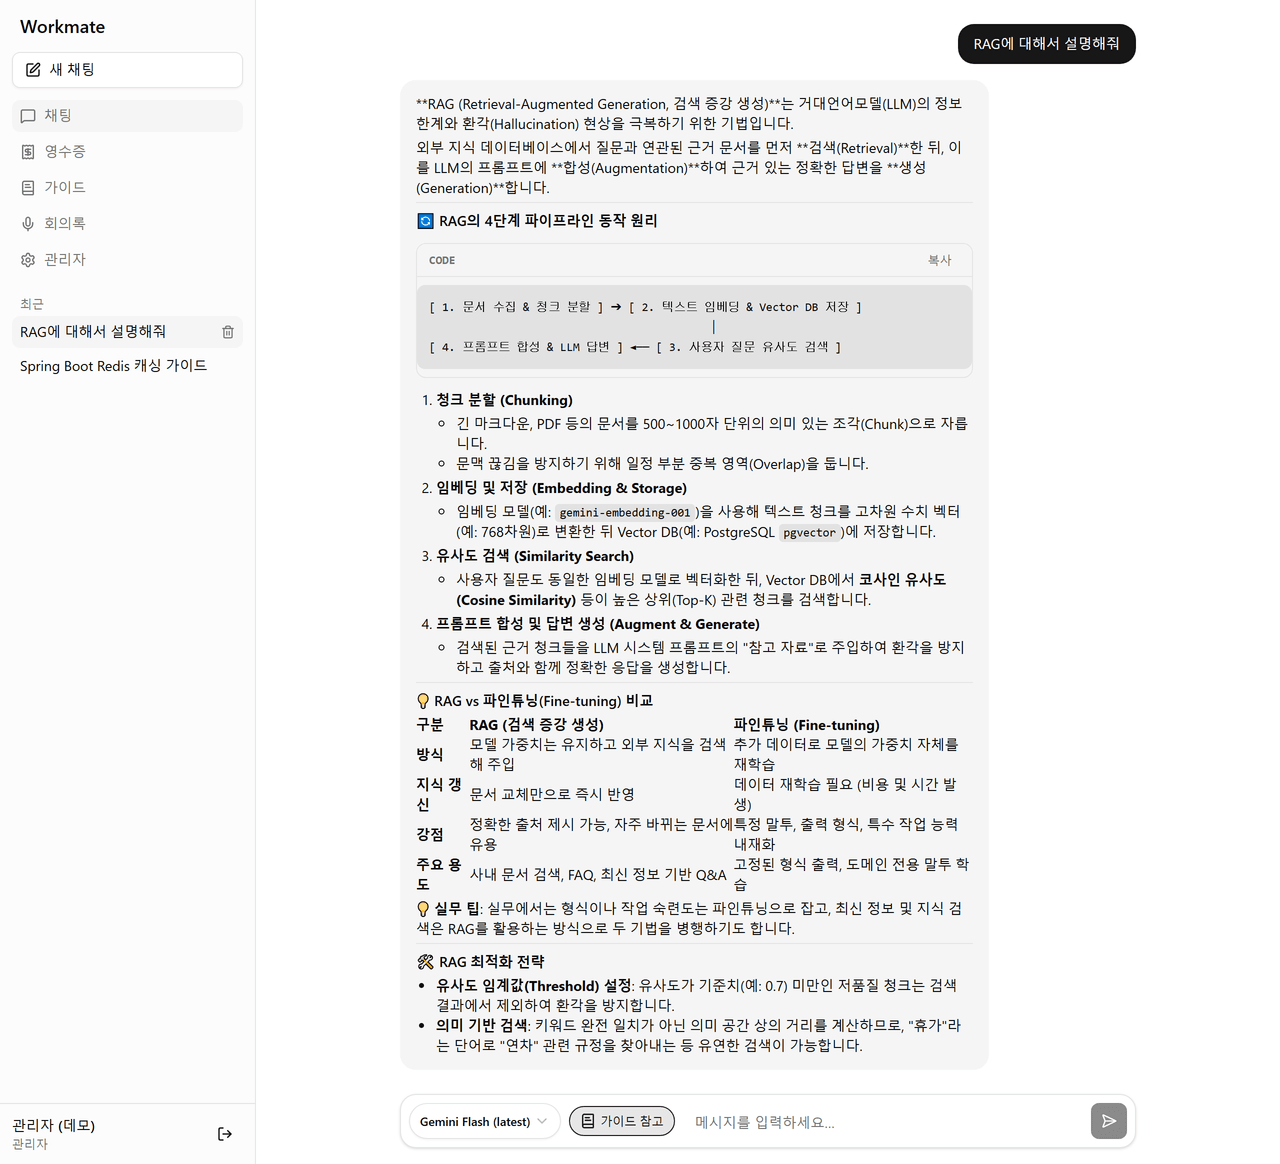
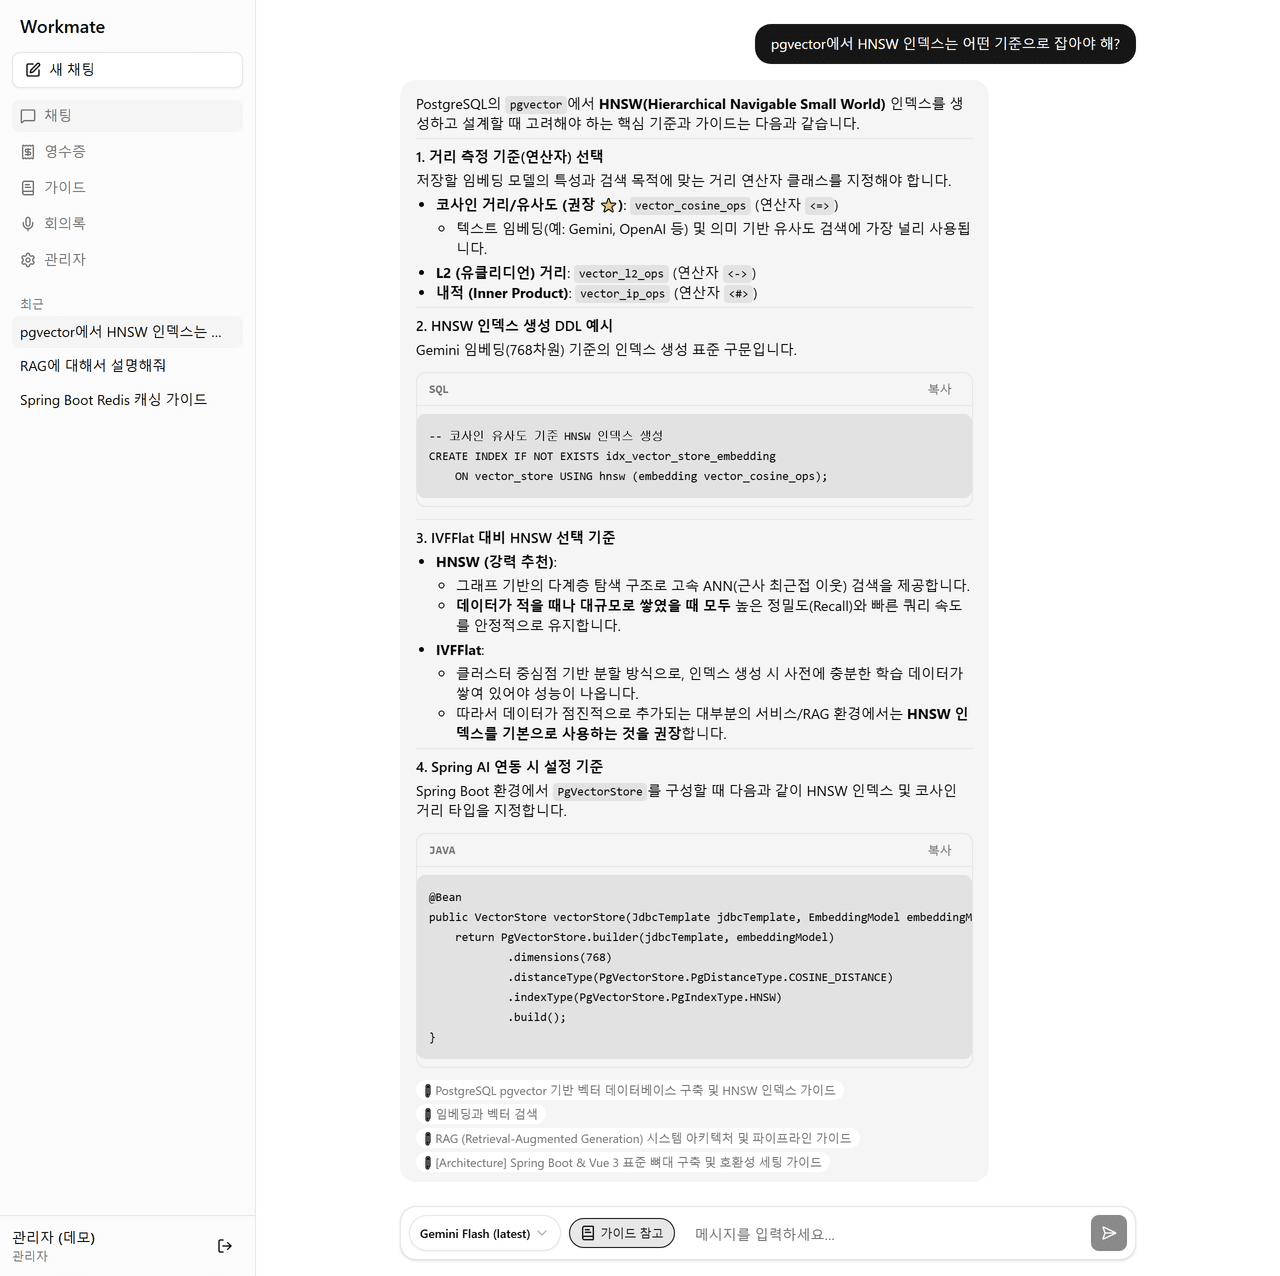
feat(docs): 채팅 스크린샷을 실제 RAG 질문으로 캡처해 출처 표시
출처(sources)는 chat_message 에 저장되지 않아 이력을 다시 열면 사라진다.
저장된 대화를 여는 방식으로는 README 의 "출처와 함께 답한다" 문구를 이미지로 뒷받침할 수 없어,
캡처하는 순간에 가이드 근거가 있는 질문을 실제로 던지고 답변이 끝난 뒤 찍도록 바꿨다.

- 출처 칩(가이드 링크)이 붙는 것을 응답 완료 신호로 사용
- 캡처용으로 만들어진 임시 대화방은 찍은 뒤 삭제해 데모 이력이 불어나지 않게 함
- README 에 채팅 화면만 실행할 때마다 내용이 달라진다는 점 명시

diff --git a/scripts/capture-all-perfect.js b/scripts/capture-all-perfect.js
@@ -28,8 +28,11 @@ const MAX_CAPTURE_HEIGHT = 3600;
 
 /** 관리자 사용자 목록에서 데모 계정만 남기는 검색어 (실제 사용자 이메일·전화번호 노출 방지) */
 const DEMO_KEYWORD = '데모';
-/** 채팅 캡처에 사용할 대화방 제목 */
-const CHAT_ROOM_TITLE = 'RAG에 대해서 설명해줘';
+/**
+ * 채팅 캡처 때 실제로 던지는 질문.
+ * 사내 가이드에 근거 문서가 있는 주제여야 답변에 출처가 붙는다.
+ */
+const RAG_QUESTION = 'pgvector에서 HNSW 인덱스는 어떤 기준으로 잡아야 해?';
 /** 가이드 상세 캡처 대상을 좁히기 위한 목록 검색어 */
 const GUIDE_SEARCH_KEYWORD = 'RAG';
 
@@ -126,6 +129,47 @@ async function login(page) {
     console.log(`  [로그인] ${EMAIL}`);
 }
 
+/**
+ * 새 대화에서 실제로 RAG 질문을 던지고, 답변에 출처가 붙은 상태를 캡처한다.
+ *
+ * 출처(sources)는 chat_message 에 저장되지 않아 이력을 다시 열면 사라진다.
+ * 그래서 저장된 대화를 여는 대신, 캡처하는 순간에 한 번 실제로 물어본다.
+ * @param {import('playwright').Page} page
+ */
+async function captureChatWithSources(page) {
+    const input = page.getByPlaceholder('메시지를 입력하세요…');
+    await input.fill(RAG_QUESTION);
+    await input.press('Enter');
+
+    try {
+        // 출처 칩(가이드 링크)이 붙으면 RAG 응답이 끝난 것으로 본다
+        await page.locator('a[href^="/guide/"]').first().waitFor({ timeout: 120000 });
+        await page.waitForTimeout(1500);
+    } catch {
+        console.warn('  [경고] 출처가 표시되지 않았다 (쿼터 초과이거나 검색 결과 없음) — 그대로 캡처한다');
+    }
+    await saveImage(page, '03_chat.png');
+    await deleteTempRoom(page);
+}
+
+/**
+ * 캡처하려고 만든 임시 대화방을 지운다.
+ * 이걸 안 하면 스크립트를 돌릴 때마다 데모 계정의 채팅 이력이 계속 불어난다.
+ * @param {import('playwright').Page} page
+ */
+async function deleteTempRoom(page) {
+    const row = page.locator('li.group').filter({ hasText: RAG_QUESTION.slice(0, 20) }).first();
+    if (!(await row.count())) {
+        console.warn('  [경고] 임시 대화방을 찾지 못해 삭제를 건너뛴다');
+        return;
+    }
+    await row.hover();
+    await row.locator('button[title="삭제"]').click();
+    await page.getByRole('button', { name: '삭제' }).click();
+    await page.waitForTimeout(1200);
+    console.log('  [정리] 캡처용 임시 대화방 삭제');
+}
+
 async function run() {
     const browser = await chromium.launch({ headless: true });
     const context = await browser.newContext({ viewport: VIEWPORT, deviceScaleFactor: 2 });
@@ -143,17 +187,9 @@ async function run() {
     // --- 2) 로그인 후 화면 ---
     await login(page);
 
-    console.log('3. 채팅 (실제 대화 이력)');
+    console.log('3. 채팅 (실제 RAG 질문 → 출처 표시)');
     await go(page, '/chat');
-    // 사이드바의 실제 대화방을 눌러 저장된 질문·AI 답변을 띄운다
-    const room = page.getByRole('button', { name: CHAT_ROOM_TITLE }).first();
-    if (await room.count()) {
-        await room.click();
-        await page.waitForTimeout(1500);
-    } else {
-        console.warn(`  [경고] 대화방 "${CHAT_ROOM_TITLE}" 을(를) 찾지 못했습니다`);
-    }
-    await saveImage(page, '03_chat.png');
+    await captureChatWithSources(page);
 
     console.log('4~5. 영수증 분석 · 이력');
     await go(page, '/receipt');

diff --git a/README.md b/README.md
@@ -61,7 +61,7 @@ docker compose up -d db                 # pgvector PostgreSQL 17
 
 프론트만 따로 핫리로드로 개발할 때는 `cd workmate-vue && npm run dev` (5173, `/api`는 8080으로 프록시). DB 환경 구축은 [WSL2·Docker 셋업 가이드](docs/development/08_DOCKER_WSL2_SETUP_GUIDE.md) 참고.
 
-DB를 처음 올리면 `db/init/`의 스키마와 데이터가 자동으로 들어간다. 가이드 문서 24건은 pgvector 임베딩까지 함께 시드되고, `demo.admin@example.com` / `Workmate!2026` 으로 로그인하면 위 스크린샷과 같은 화면을 그대로 볼 수 있다. 위 이미지는 목 데이터가 아니라 이 상태의 앱을 실제로 캡처한 것이다(`node scripts/capture-all-perfect.js`).
+DB를 처음 올리면 `db/init/`의 스키마와 데이터가 자동으로 들어간다. 가이드 문서 24건은 pgvector 임베딩까지 함께 시드되고, `demo.admin@example.com` / `Workmate!2026` 으로 로그인하면 위 화면들을 그대로 볼 수 있다. 위 이미지는 목 데이터가 아니라 이 상태의 앱을 찍은 것이다(`node scripts/capture-all-perfect.js`). 맨 위 채팅 화면만은 캡처할 때 실제로 질문을 던져 받은 답이라 실행할 때마다 내용이 달라진다.
 
 ## 문서
 
